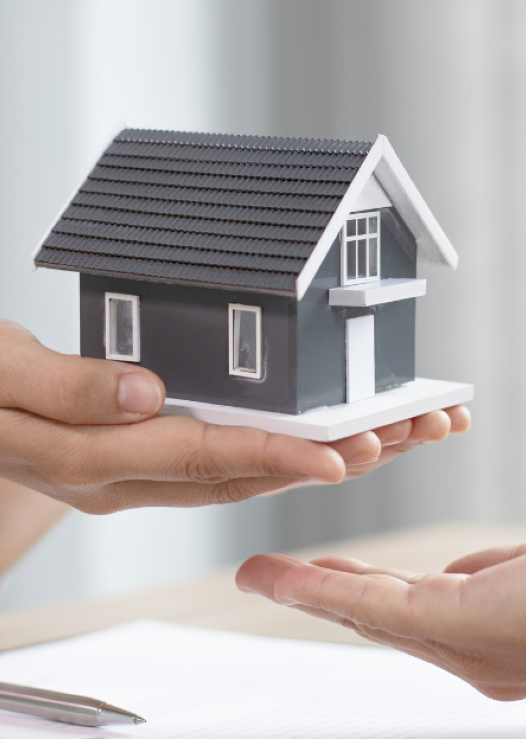
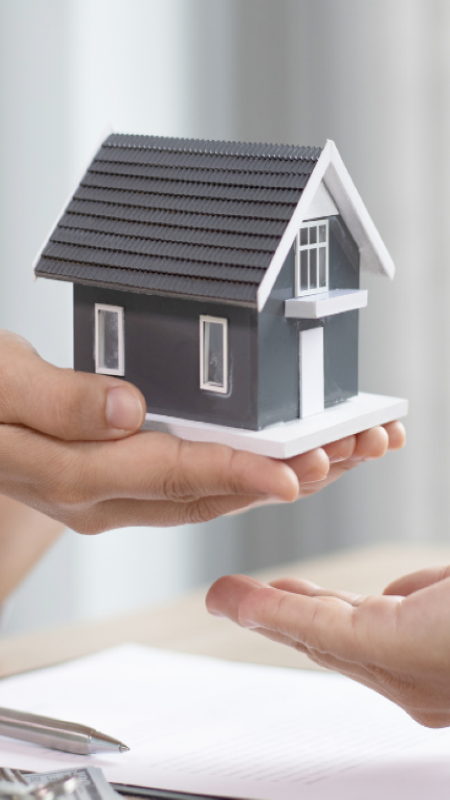
agregamos todos los fondos en las medias querys y corregimos algunos detalles

diff --git a/pages/nosotros.html b/pages/nosotros.html
@@ -47,18 +47,18 @@
    </header>
    <hr>
 <section class="section p-5 mb-4" >
-    <h1 class="azul" data-aos="fade-up" data-aos-duration="1500">Quiénes Somos?</h1>
+    <h1 class="azul pb-3" data-aos="fade-up" data-aos-duration="1500">Quiénes Somos?</h1>
     <p data-aos="fade-up" data-aos-duration="1500">GMyM. Es una organización de asesoramiento y venta de seguros que cuenta con el apoyo de importantes Aseguradoras. Utiliza el análisis y la administración objetiva de riesgos para lograr que los clientes puedan disminuir los costos de sus pólizas de seguros asegurándolos en Compañías nacionales o internacionales de primer nivel. <br>
-        Sabemos de la importancia de contar con un consultor independiente que pueda diseñar, de acuerdo al riesgo a cubrir, la mejor cobertura, el mejor costo, en la Aseguradora más conveniente. Hoy contamos con los recursos necesarios para proveer una planificación integral. <br><br>
+        Sabemos de la importancia de contar con un consultor independiente que pueda diseñar, de acuerdo al riesgo a cubrir, la mejor cobertura, el mejor costo, en la Aseguradora más conveniente. Hoy contamos con los recursos necesarios para proveer una planificación integral.</p> 
         
-        Guillermo O. Molas y Molas <br>
+        <p data-aos="flip-down" data-aos-duration="1500">Guillermo O. Molas y Molas <br>
         Productor Asesor de Seguros <br>
         M.P.: 51533</p>
 </section><hr>
 <div class="container-fluid pt-2">
     <div class="row d-flex disenio__desarrollo">
       <div class="disenio">
-        <h6 class="diseño__h6"><i class="far fa-copyright"></i> Diseño y De sarrollo: Facundo Molas y Molas</h6>
+        <h6 class="diseño__h6"><i class="far fa-copyright"></i> Diseño y Desarrollo: Facundo Molas y Molas</h6>
       </div>
       <div class="img__ssn">
         <img src="../assets/images/ssn.png" alt="logo ssn">

diff --git a/pages/productos.html b/pages/productos.html
@@ -47,7 +47,7 @@
     </header>
     <hr>
     <section class="section p-5" >
-        <h1 class="azul" data-aos="fade-up" data-aos-duration="1500">NUESTROS PRODUCTOS</h1>
+        <h1 class="azul" data-aos="fade-up" data-aos-duration="1500">NUESTROS PRODUCTOS</h1><br>
         <p data-aos="fade-up" data-aos-duration="1500">Nuestros productos estan conformados por la combinación de los productos ofrecidos por las aseguradoras y los servicios prestados por GMyM en función de la relación Cliente-Aseguradora.
 
         Dentro de una amplia gama de productos GMyM desarrolla planes tanto personales como corporativos; los cuales, además de sus propias características, se orientan a la reducción de la siniestralidad en el tiempo.
@@ -68,6 +68,7 @@
             -Responsabilidad Civil Profesional <br>
             -Salud <br>
             -Vida</p>
+            
         <h2 class="azul italic" data-aos="fade-up" data-aos-duration="1500">Productos Corporativos</h2>
         <p data-aos="fade-up" data-aos-duration="1500">Desarrollamos planes de seguros adaptados al tamaño y necesidad de su empresa, resguardando su patrimonio y orientandonos a la disminución de la siniestralidad. <br>
 
@@ -97,7 +98,7 @@
     <div class="container-fluid pt-2">
         <div class="row d-flex disenio__desarrollo">
           <div class="disenio">
-            <h6 class="diseño__h6"><i class="far fa-copyright"></i> Diseño y De sarrollo: Facundo Molas y Molas</h6>
+            <h6 class="diseño__h6"><i class="far fa-copyright"></i> Diseño y Desarrollo: Facundo Molas y Molas</h6>
           </div>
           <div class="img__ssn">
             <img src="../assets/images/ssn.png" alt="logo ssn">

diff --git a/scss/_querys.scss b/scss/_querys.scss
@@ -30,13 +30,7 @@
 }
 
 @media all and(max-width:767px){ //mobiles
-    .containerHeader__logoIndex{
-        img{
-        width:120px;
-        height: 75px;
-        object-fit:scale-down;
-        }
-    }
+    
     .containerHeader{
         background-image: url(../assets/images/fondos_mobile/hogar.png);
         object-fit:scale-down;
@@ -50,6 +44,26 @@
             object-fit:scale-down;
             }
         }
+    }
+
+    .nosotros{
+        background-image: url(../assets/images/fondos_mobile/manos_agarradas.jpg);
+    }
+
+    .productos{
+        background-image: url(../assets/images/fondos_mobile/productos_mobile.jpg);
+    }
+
+    .cotizador{
+        background-image: url(../assets/images/fondos_mobile/coti.jpg);
+    }
+
+    .siniestro{
+        background-image: url(../assets/images/fondos_mobile/siniestro_mobile.jpg);
+    }
+
+    .contacto{
+        background-image: url(../assets/images/fondos_mobile/contact.jpg);
     }
     .disenio__desarrollo{
         justify-content: center;
@@ -73,6 +87,12 @@
             text-align: center !important ;
             margin-top: 10px;
             margin-left: 15px;
+        }
+    }
+
+    .logos__companias{
+        img{
+            flex-basis: 35px;
         }
     }
 }

diff --git a/css/style.css b/css/style.css
@@ -182,10 +182,6 @@ body {
 
 */
 @media all and (max-width: 767px) {
-  .containerHeader__logoIndex img {
-    width: 120px;
-    height: 75px;
-    object-fit: scale-down; }
   .containerHeader {
     background-image: url(../assets/images/fondos_mobile/hogar.png);
     object-fit: scale-down;
@@ -197,6 +193,16 @@ body {
         width: 120px;
         height: 75px;
         object-fit: scale-down; }
+  .nosotros {
+    background-image: url(../assets/images/fondos_mobile/manos_agarradas.jpg); }
+  .productos {
+    background-image: url(../assets/images/fondos_mobile/productos_mobile.jpg); }
+  .cotizador {
+    background-image: url(../assets/images/fondos_mobile/coti.jpg); }
+  .siniestro {
+    background-image: url(../assets/images/fondos_mobile/siniestro_mobile.jpg); }
+  .contacto {
+    background-image: url(../assets/images/fondos_mobile/contact.jpg); }
   .disenio__desarrollo {
     justify-content: center;
     margin-bottom: 30px; }
@@ -212,4 +218,6 @@ body {
     .footer .redesFooter {
       text-align: center !important;
       margin-top: 10px;
-      margin-left: 15px; } }
+      margin-left: 15px; }
+  .logos__companias img {
+    flex-basis: 35px; } }

diff --git a/pages/contacto.html b/pages/contacto.html
@@ -98,7 +98,7 @@
     <div class="container-fluid pt-2">
         <div class="row d-flex disenio__desarrollo">
           <div class="disenio">
-            <h6 class="diseño__h6"><i class="far fa-copyright"></i> Diseño y De sarrollo: Facundo Molas y Molas</h6>
+            <h6 class="diseño__h6"><i class="far fa-copyright"></i> Diseño y Desarrollo: Facundo Molas y Molas</h6>
           </div>
           <div class="img__ssn">
             <img src="../assets/images/ssn.png" alt="logo ssn">

diff --git a/pages/cotizador.html b/pages/cotizador.html
@@ -72,7 +72,7 @@
     <div class="container-fluid pt-2">
         <div class="row d-flex disenio__desarrollo">
           <div class="disenio">
-            <h6 class="diseño__h6"><i class="far fa-copyright"></i> Diseño y De sarrollo: Facundo Molas y Molas</h6>
+            <h6 class="diseño__h6"><i class="far fa-copyright"></i> Diseño y Desarrollo: Facundo Molas y Molas</h6>
           </div>
           <div class="img__ssn">
             <img src="../assets/images/ssn.png" alt="logo ssn">

diff --git a/pages/siniestros.html b/pages/siniestros.html
@@ -60,7 +60,7 @@
     <div class="container-fluid pt-2">
         <div class="row d-flex disenio__desarrollo">
           <div class="disenio">
-            <h6 class="diseño__h6"><i class="far fa-copyright"></i> Diseño y De sarrollo: Facundo Molas y Molas</h6>
+            <h6 class="diseño__h6"><i class="far fa-copyright"></i> Diseño y Desarrollo: Facundo Molas y Molas</h6>
           </div>
           <div class="img__ssn">
             <img src="../assets/images/ssn.png" alt="logo ssn">
